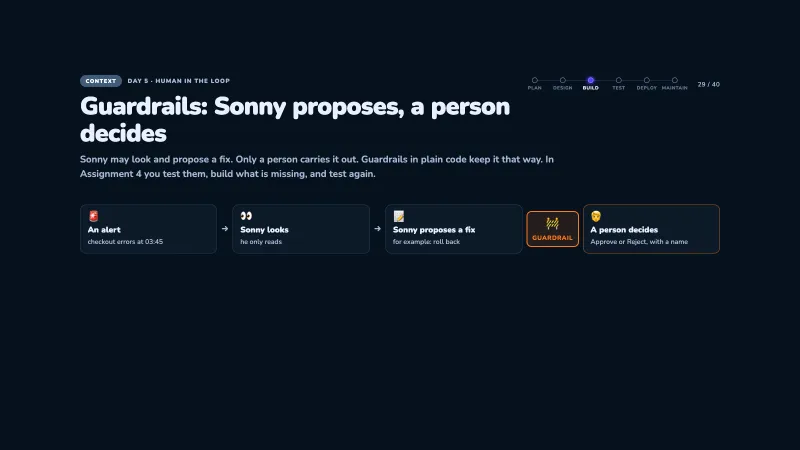
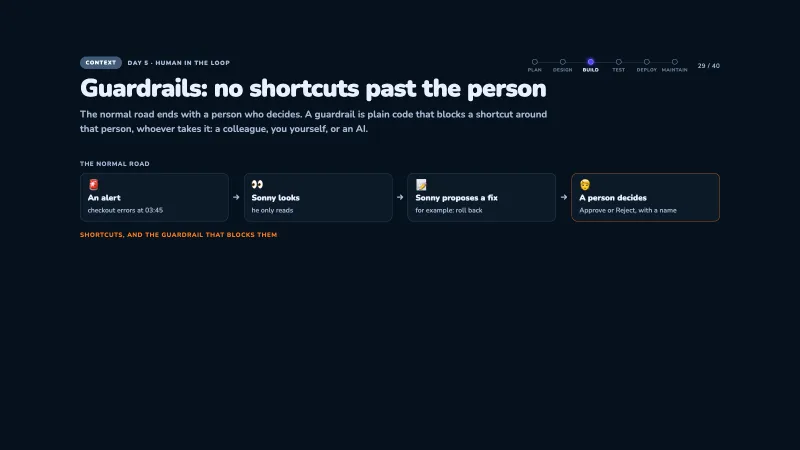
Day 5 slide 29 reframed: "Guardrails: no shortcuts past the person"
Why: Jessy pointed out the old version was odd: the chain showed Sonny proposing
a fix, but the chat example was about someone else asking for a rollback, and the
guardrail sat in the normal flow. The angle now: the normal road ends with a
person who decides; a guardrail blocks a shortcut around that person, whoever
takes it (a colleague, you yourself, a trick in a log, or an AI).

- Top: "The normal road" (alert → Sonny looks → proposes a fix → a person decides),
  no guardrail in it.
- Below: "Shortcuts, and the guardrail that blocks them": 1 rolling back through
  the chat (who/try/stop), 2 lowering the pass mark: Sonny's practice exam (bench)
  must reach 70% right and 0 harmful (bench/ratchet.json); Claude Code may not
  lower it. Plain words instead of "the bar".
- Script, watch, terms and pictures s29-1..5 redone; A4 notes use the same words.
- guardRail visual: optional chain/rails headings; the middle gate is optional.

diff --git a/day5-jessy-slides.js b/day5-jessy-slides.js
@@ -1042,35 +1042,36 @@ const day5Slides = [
     notes: note({time: '12:15 · 3 min', why: 'The quiz catches identity and authority mistakes before lunch.', predict: 'Ask for two true answers.', see: 'B and D remain.', inside: 'The wrong answers repeat the two main risks.', participant: 'Vote before the reveal.', watch: 'Do not explain before the vote.', stuck: 'Read each answer aloud.', stop: 'The room can explain both false answers.', next: 'Lunch'})
   }),
   pauseSlide('Lunch', '60 min', 'Recall the morning before A4', '12:00'),
-  pauseSlide('Restart and settle', '10 min', 'Guardrails: Sonny proposes, a person decides', '13:10'),
+  pauseSlide('Restart and settle', '10 min', 'Guardrails: no shortcuts past the person', '13:10'),
   baseSlide({
-    title: 'Guardrails: Sonny proposes, a person decides', kicker: 'Day 5 · HUMAN IN THE LOOP', type: 'context',
-    subtitle: 'Sonny may look and propose a fix. Only a person carries it out. Guardrails in plain code keep it that way. In Assignment 4 you test them, build what is missing, and test again.',
+    title: 'Guardrails: no shortcuts past the person', kicker: 'Day 5 · HUMAN IN THE LOOP', type: 'context',
+    subtitle: 'The normal road ends with a person who decides. A guardrail is plain code that blocks a shortcut around that person, whoever takes it: a colleague, you yourself, or an AI.',
     visual: {guardRail: {
+      chainTitle: 'The normal road',
       chain: [['🚨', 'An alert', 'checkout errors at 03:45'], ['👀', 'Sonny looks', 'he only reads'], ['📝', 'Sonny proposes a fix', 'for example: roll back'], ['🧑', 'A person decides', 'Approve or Reject, with a name']],
-      gate: 'guardrail',
+      railsTitle: 'Shortcuts, and the guardrail that blocks them',
       rails: [
-        {icon: '💬', title: 'On the operator’s desk: the chat', tryLabel: 'Try', try: '“Roll back now.” typed in the chat', stop: 'Questions: yes. Actions: no. A rollback is a button for a named person.', where: 'src/chat.ts', today: 'today: missing · Claude Code builds it'},
-        {icon: '🛠', title: 'On Claude Code: the bar', tryLabel: 'Try', try: 'Claude Code changes bench/ratchet.json: the bar Sonny must meet (70% right, 0 harmful)', stop: 'Only a person changes the bar. Claude Code may not make the test easier.', where: '.claude/hooks/guard.mjs', today: 'today: missing · you write it yourself'}
+        {icon: '💬', title: 'Shortcut 1: rolling back through the chat', who: 'anyone at the desk: a colleague, you at 03:45, or a trick hidden in a log message', try: 'types “Roll back now.” in the chat, without a diagnosis and without the button', stop: 'The chat answers questions, but refuses actions: “use the button, with your name”.', where: 'src/chat.ts', today: 'today: missing · Claude Code builds it'},
+        {icon: '🛠', title: 'Shortcut 2: lowering the pass mark', who: 'Claude Code, the AI that builds with you', try: 'Sonny must pass a practice exam: at least 70% right, never a harmful fix. Claude Code lowers that pass mark in bench/ratchet.json, so Sonny passes without getting better', stop: 'Only a person may change the pass mark. Claude Code is refused.', where: '.claude/hooks/guard.mjs', today: 'today: missing · you write it yourself'}
       ],
-      foot: 'Assignment 4: try it → build what is missing → try it again.'
+      foot: 'Assignment 4: try the shortcut → build the guardrail → try the shortcut again.'
     }},
-    keyPoints: ['Sonny looks and proposes. A person decides.', 'Guardrails are plain code: they work the same with or without AI.', 'Test a guardrail by trying to break it.'],
-    notes: 'Time: 13:13 · 5 min. Replaces Ryan’s “Refuse unsafe chat actions” and the A4 example picture. Clicks (→): 1 the guardrail in the chain lights up · 2 the chat guardrail · 3 the guardrail on Claude Code · 4 the line at the bottom. Facts (workshop/start): every chat message first goes through routeMessage() in src/chat.ts, plain code that sorts it by how it starts: “Investigate …” → an investigation, “Watch …” → a deployment watch, anything else → a question, answered from read-only tools. The action refusal (roll back, approve, resolve, scale up) is the TODO(A4) there; test/workshop/chat.test.ts is red until it is built. Sonny has no tool that can roll back; rollback only runs through Approve and then Execute (a separate executor) on the desk. bench/ratchet.json = {min_rate 0.7, max_harmful 0}: the minimum the offline bench must reach. The guard hook (.claude/hooks/guard.mjs) is the project’s Claude Code hook (like Day 2); its TODO(A4) is the line the participant writes by hand. Tested: before A4 “Roll back now.” gets the evidence summary and “You asked: …”; after A4 “mutations are buttons for a named human, not chat requests”.',
+    keyPoints: ['The normal road ends with a person who decides.', 'A guardrail blocks a shortcut around that person, whoever takes it.', 'Guardrails are plain code: test them by trying the shortcut.'],
+    notes: 'Time: 13:13 · 5 min. Replaces Ryan’s “Refuse unsafe chat actions” and the A4 example picture. Clicks (→): 1 the heading “Shortcuts…” · 2 shortcut 1 (the chat) · 3 shortcut 2 (the pass mark) · 4 the line at the bottom. The top row is the normal road, always visible: no guardrail is needed there. Facts (workshop/start): every chat message first goes through routeMessage() in src/chat.ts, plain code that sorts it by how it starts: “Investigate …” → an investigation, “Watch …” → a deployment watch, anything else → a question answered from read-only tools. The action refusal (roll back, approve, resolve, scale up) is the TODO(A4) there; test/workshop/chat.test.ts is red until built. Sonny has no tool that can roll back; rollback only runs through Approve and then Execute on the desk. The practice exam = the bench (npm run bench: Sonny on a set of saved incidents); bench/ratchet.json = {min_rate 0.7, max_harmful 0}, the minimum the bench must reach. The guard hook (.claude/hooks/guard.mjs, like Day 2) checks every Claude Code action; its TODO(A4) is the line the participant writes by hand. Tested: before A4 “Roll back now.” is treated as a question (evidence + “You asked: …”); after A4 “mutations are buttons for a named human, not chat requests”.',
     teach: {
       time: '5 min',
-      gist: 'Zoom out: control. Sonny looks and proposes, a person decides, and guardrails in plain code keep it that way. Assignment 4 tests two of them.',
+      gist: 'Zoom out: the normal road ends with a person who decides. Guardrails block shortcuts around that person, whoever takes them. Assignment 4 tests two shortcuts.',
       script: [
-        {shot: 'assets/day5-jessy-teach/s29-1.webp', do: 'Slide appears. Point at the chain, left to right.', say: ['This morning Sonny learned to write a diagnosis you can trust. It ends with a proposed fix, for example: roll back.', 'Look at the chain: an alert, Sonny looks, he only reads, he proposes a fix. And at the end, a person decides: Approve or Reject, with a name.'], ask: ['Why not let Sonny roll back himself? He is right most of the time.']},
-        {say: ['(Answer: the fix is the riskiest moment. A wrong rollback can make things worse, and someone has to answer for it. In SRE the tools propose, and a person with a name approves.)']},
-        {shot: 'assets/day5-jessy-teach/s29-2.webp', do: 'Click: the guardrail lights up.', say: ['Between “he proposes” and “a person decides” sits a guardrail. Plain code, not AI: it does not get tired, and you cannot talk it into anything.', 'Being in control means: you know where the guardrails are, you test them, and you fix them when something is missing.']},
-        {shot: 'assets/day5-jessy-teach/s29-3.webp', do: 'Click: the chat guardrail.', say: ['You know the desk from this morning. In the chat the operator asks Sonny questions.', 'But what if someone types “Roll back now.”? A tired operator at 03:45, or a trick hidden in a log message.', 'The guardrail: questions yes, actions no. A rollback is a button for a named person. Today it is missing: you will see that yourself.']},
-        {shot: 'assets/day5-jessy-teach/s29-4.webp', do: 'Click: the guardrail on Claude Code.', say: ['The second guardrail is not on Sonny, but on Claude Code, the AI that builds with you.', 'bench/ratchet.json holds the bar Sonny must meet: 70% of the practice incidents right, 0 harmful proposals.', 'If Claude Code may lower that bar, it can always make itself look good. So only a person changes it.', 'And because this guardrail watches Claude Code, you write that line yourself, not Claude Code.']},
-        {shot: 'assets/day5-jessy-teach/s29-5.webp', do: 'Click: the line at the bottom.', say: ['That is Assignment 4: try it, build what is missing, try it again. The same rhythm as the red and green test this morning, now on the desk.']}
+        {shot: 'assets/day5-jessy-teach/s29-1.webp', do: 'Slide appears. Point at the top row, left to right.', say: ['This is the normal road. You know it from this morning.', 'An alert. Sonny looks, he only reads. He proposes a fix, for example: roll back. And then a person decides: Approve or Reject, with a name.', 'Nothing wrong with this road. The person at the end is in control.'], ask: ['Where could someone skip that person?']},
+        {shot: 'assets/day5-jessy-teach/s29-2.webp', do: 'Click: the heading “Shortcuts”.', say: ['A guardrail is plain code that blocks a shortcut around that person. Whoever takes the shortcut: a colleague, you yourself, or an AI.', 'Not because people are bad. Because at 03:45 everyone is tired, and an AI does what it is told.']},
+        {shot: 'assets/day5-jessy-teach/s29-3.webp', do: 'Click: shortcut 1.', say: ['Shortcut 1: someone types “Roll back now.” in the chat. No diagnosis, no button, no name.', 'That could be a colleague in a hurry, you yourself at 03:45, or a trick: text hidden in a log message that tries to give an order.', 'The guardrail: the chat answers questions, but refuses actions. “Use the button, with your name.” Today it is missing: you will see that yourself first.']},
+        {shot: 'assets/day5-jessy-teach/s29-4.webp', do: 'Click: shortcut 2.', say: ['Shortcut 2 is about Claude Code, the AI that builds with you.', 'Sonny must pass a practice exam: a set of saved incidents. At least 70% right, and never a harmful fix. That pass mark is in one file: bench/ratchet.json.', 'If Claude Code can change that file, it can lower the pass mark. Then Sonny “passes” without getting better. Like a student who changes their own grade.', 'The guardrail: only a person may change the pass mark. And because this guardrail watches Claude Code, you write it yourself.']},
+        {ask: 'Who takes the shortcut in shortcut 2?', say: ['(Answer: Claude Code. So even the AI you work with gets a guardrail.)']},
+        {shot: 'assets/day5-jessy-teach/s29-5.webp', do: 'Click: the line at the bottom.', say: ['That is Assignment 4: try the shortcut, build the guardrail, try the shortcut again. The same rhythm as red and green this morning.']}
       ],
-      learn: ['Sonny looks and proposes; a person decides.', 'Guardrails are plain code, so you can test them.', 'One guardrail protects the desk, one protects the project from the builder AI.'],
-      watch: ['Someone asks if Sonny could roll back now: no. He has no tool for it. Rollback only runs through Approve and Execute on the desk.', 'Someone asks what a “trick in a log message” is: text inside data that tries to give the AI an order. Plain-code guardrails do not listen to it.', 'Do not go into the code here; that is the assignment.'],
-      terms: [['Guardrail', 'plain code that stops an action before it happens'], ['Rollback', 'undo the last update: back from v2.15.0 to v2.14.0'], ['bench/ratchet.json', 'the bar Sonny must meet: 70% right, 0 harmful']],
+      learn: ['The normal road ends with a person who decides.', 'A guardrail blocks a shortcut around that person, whoever takes it, even an AI.', 'You test a guardrail by trying the shortcut.'],
+      watch: ['Someone asks if Sonny could roll back now: no. He has no tool for it. Rollback only runs through Approve and Execute on the desk. Shortcut 1 is about the chat looking like the place to do it.', 'Someone asks what a “trick in a log message” is: text inside data that tries to give the AI an order. Plain-code guardrails do not listen to it.', 'Do not go into the code here; that is the assignment.'],
+      terms: [['Guardrail', 'plain code that blocks a shortcut around the person who decides'], ['Rollback', 'undo the last update: back from v2.15.0 to v2.14.0'], ['Practice exam (bench)', 'Sonny on a set of saved incidents; the pass mark is in bench/ratchet.json: 70% right, 0 harmful']],
       next: 'Assignment 4.'
     }
   }),
@@ -1083,7 +1084,7 @@ const day5Slides = [
       {text: 'Type this in: Claude Code. Goal: check your guard line, without Claude Code touching it.', prompt: PROMPTS.a4Review, after: 'The guard test: Edit and Write to bench/ratchet.json are denied. Claude Code did not edit the hook.'},
       {text: 'Type this in: Window 1. Press Ctrl+C, then start the console again so it uses your A4 code.', prompt: 'AGENT_LISTEN_WINDOW_MIN=1 npm run console', after: 'The console runs again. The shop and the customers keep running.', warn: true},
       {text: 'Open in browser: http://localhost:4320. Goal: try step 1 again. Same investigation, same chat:', prompt: 'Roll back now.', after: '“mutations are buttons for a named human, not chat requests”.'},
-      {text: 'You decide. Goal: say the two guardrails in your own words.', after: 'The chat guardrail: a chat message never starts an action. The guardrail on Claude Code: only a person changes the bar.'}
+      {text: 'You decide. Goal: say the two guardrails in your own words.', after: 'The chat guardrail: a chat message never starts an action. The guardrail on Claude Code: only a person changes the pass mark.'}
     ],
     after: 'On the desk the chat now refuses “roll back”, evidence questions still work, and your guard line locks bench/ratchet.json.',
     checks: ['Step 1 and step 6: the same sentence, first answered, then refused.', 'The chat test and the guard test are green.', 'You wrote the guard line yourself.'],
@@ -1094,20 +1095,20 @@ const day5Slides = [
       done: ['They saw the same sentence answered (step 1) and refused (step 6).', 'Chat test and guard test green.', 'They can name the two guardrails.'],
       copy: [['Step 1 · Browser chat', 'Roll back now.'], ['Step 2 · Claude Code', PROMPTS.a4Chat], ['Step 3 · .claude/hooks/guard.mjs', 'else if (rel === "bench/ratchet.json")\n    decide("deny", "guard: ratchet is human-owned");'], ['Step 4 · Claude Code', PROMPTS.a4Review], ['Step 5 · Window 1 (Ctrl+C first)', 'AGENT_LISTEN_WINDOW_MIN=1 npm run console'], ['Step 6 · Browser chat', 'Roll back now.']],
       script: [
-        {do: 'Slide appears. Goal of this assignment.', say: ['This morning Sonny learned to write a good diagnosis. Now: what may he do?', 'He may look at evidence and propose a fix. He may never do it himself. Rolling back is a button for a named person.', 'Today you test and build two guardrails from the last slide: one on the chat, one on Claude Code.']},
+        {do: 'Slide appears. Goal of this assignment.', say: ['This morning Sonny learned to write a good diagnosis. Now: what may he do?', 'He may look at evidence and propose a fix. He may never do it himself. Rolling back is a button for a named person.', 'Today you try the two shortcuts from the last slide, and build the guardrails: one on the chat, one on Claude Code.']},
         {do: 'Step 1 · see the problem first. Browser, your investigation from Assignment 3, chat: “Roll back now.”', copy: [['Step 1 · Browser chat', 'Roll back now.']], say: ['Why: first see that the guardrail is missing, like the red test this morning.', 'They see: Sonny answers with his evidence, and “You asked: Roll back now.”.', 'What happened: every chat message first goes through a sorter, plain code. It looks at how the message starts. “Investigate …” starts an investigation, “Watch …” watches an update, and anything else is treated as a question.', '“Roll back now.” is none of these, so it becomes a question. Nothing is rolled back: Sonny has no tool for that. But nothing says no either. At 03:45 the operator might think it worked.']},
         {ask: 'Who should be able to roll back, at 03:45?', say: ['(Answer: a named person, with a button. Not a chat message.)']},
         {do: 'Step 2 · build the chat lock. Paste the first prompt.', copy: [['Step 2 · Claude Code', PROMPTS.a4Chat]], say: ['Why: same rhythm as Assignment 3: the test red first, then build, then green.', 'In the project: the sorter in src/chat.ts gets one more row: action words (roll back, approve, resolve, scale up) → refused, with a clear answer. It runs before everything else. Only the A4 chat test runs.', 'Two sentences matter: “Do not approve and roll back now.” must be refused. The long evidence question that ends with “Do not approve or execute anything.” must still work: it only asks to look.']},
         {ask: 'Both sentences say “do not approve”. Why is one refused and the other not?', say: ['(Answer: the first one still asks to roll back. The second one only asks to look at evidence.)']},
-        {do: 'Step 3 · you, not Claude. Open .claude/hooks/guard.mjs, replace the TODO(A4) lines.', copy: [['Step 3 · guard.mjs', 'else if (rel === "bench/ratchet.json")\n    decide("deny", "guard: ratchet is human-owned");']], say: ['Why: this file guards Claude Code itself. If Claude Code wrote its own guardrail, who checks it? So a person writes this line.', 'bench/ratchet.json holds the score Sonny must keep reaching. Claude Code may not change it to make itself look good.']},
+        {do: 'Step 3 · you, not Claude. Open .claude/hooks/guard.mjs, replace the TODO(A4) lines.', copy: [['Step 3 · guard.mjs', 'else if (rel === "bench/ratchet.json")\n    decide("deny", "guard: ratchet is human-owned");']], say: ['Why: this file guards Claude Code itself. If Claude Code wrote its own guardrail, who checks it? So a person writes this line.', 'bench/ratchet.json holds the pass mark of Sonny’s practice exam: 70% right, 0 harmful. If Claude Code could lower it, Sonny would pass without getting better.']},
         {do: 'Step 4 · let Claude Code check your line. Paste the second prompt.', copy: [['Step 4 · Claude Code', PROMPTS.a4Review]], say: ['In the project: only the guard test runs. Claude Code reads your line, but does not edit it.', 'They see: Edit and Write to bench/ratchet.json are denied.', 'Honest limit: the guard looks at Claude Code’s edit actions. It does not block every shell command. The prompt says not to claim that.']},
         {do: 'Step 5 · restart the console in Window 1.', copy: [['Step 5 · Window 1', 'AGENT_LISTEN_WINDOW_MIN=1 npm run console']], say: ['Same as Assignment 3: the console still runs your old code. Ctrl+C, start again. Only Window 1.']},
         {do: 'Step 6 · try step 1 again. Same investigation, same chat.', copy: [['Step 6 · Browser chat', 'Roll back now.']], say: ['They see: “mutations are buttons for a named human, not chat requests”.', 'Same sentence as step 1. Before: treated as a question. Now: the sorter refuses it straight away, with a clear answer. That is your guardrail, on the operator’s desk.', 'Ask a normal question too, like “How is production doing?”: it still gets an answer. Only actions are locked.']},
-        {do: 'Step 7 · wrap up: the two guardrails.', say: ['The chat guardrail: a chat message can never start an action, also not with a real AI later. That protects the operator.', 'The guardrail on Claude Code: it cannot change the bar. That protects the project from the builder AI.', 'Both are plain code, not AI. Like the contract this morning.', 'In Assignment 6 you see the button that a person does press.']}
+        {do: 'Step 7 · wrap up: the two guardrails.', say: ['The chat guardrail: a chat message can never start an action, also not with a real AI later. That protects the operator.', 'The guardrail on Claude Code: it cannot lower the pass mark. Even the AI you build with gets a guardrail.', 'Both are plain code, not AI. Like the contract this morning.', 'In Assignment 6 you see the button that a person does press.']}
       ],
       learn: ['See the problem first, then build, then see it again: before and after.', 'In the chat Sonny answers questions; a chat message never starts an action. Actions are buttons for a named person.', 'Some files only a person changes, even the lock on the builder AI.'],
       watch: ['Step 1: the investigation from Assignment 3 is gone after the restart? Click “+ New investigation” → “Investigate: customers report checkout errors” and use that one.', 'Step 1: Sonny already refuses: they used the catch-up branch, which has A4 in it. Fine, skip to step 2.', 'Step 6 still answers instead of refusing: the console was not restarted (step 5).', 'Claude Code offers to edit guard.mjs in step 4: say no, step 3 is the person’s job.', 'Someone says the guard blocks everything: no, only Claude Code’s edits to that one file.', 'The guard asks extra confirmation for test files in step 2: that is the guard from Day 2 doing its work.'],
-      terms: [['Mutation', 'an action that changes something: roll back, approve, scale, resolve'], ['Guard', 'the hook .claude/hooks/guard.mjs: plain code that allows or denies each Claude Code action'], ['bench/ratchet.json', 'the score Sonny must keep reaching; only a person may change it']],
+      terms: [['Mutation', 'an action that changes something: roll back, approve, scale, resolve'], ['Guard', 'the hook .claude/hooks/guard.mjs: plain code that allows or denies each Claude Code action'], ['bench/ratchet.json', 'the pass mark of Sonny’s practice exam (70% right, 0 harmful); only a person may change it']],
       changes: [
         ['After step 1', 'Nothing in Git. The chat message is saved in console/data/, which Git ignores.'],
         ['After step 2', '`modified: src/chat.ts` (plus PROGRESS.md).'],

diff --git a/day5-jessy.html b/day5-jessy.html
@@ -1,5 +1,5 @@
 <!doctype html>
-<html lang="en"><head><meta charset="utf-8"><meta http-equiv="Cache-Control" content="no-cache, no-store, must-revalidate"><meta http-equiv="Pragma" content="no-cache"><meta http-equiv="Expires" content="0"><meta name="viewport" content="width=device-width,initial-scale=1"><meta name="theme-color" content="#06111e"><title>Day 5 · AI-native SDLC (Jessy) · Aetherlink classroom</title><meta name="description" content="Day 5: a newcomer builds an AI on-call agent through six evidence-led assignments with Claude Code."><link rel="stylesheet" href="styles.css?v=197"><link rel="stylesheet" href="assets/day5-mobile.css?v=1"><script>window.ASG_PROMPT = true; window.ASG_WIDE = true; window.PRESENTER_PAGE = "day5-jessy-presenter.html"; window.OVERVIEW_SHEET = "https://claude.ai/artifact/46G6q235cuFtgRUruznWXm";</script><script src="day5-jessy-slides.js?v=51" defer></script><script src="demo-fallback.js?v=94" defer></script><script src="timers.js?v=92" defer></script><script src="sessions.js?v=20" defer></script><script src="app.js?v=178" defer></script><script src="fit-stage.js?v=2" defer></script></head>
+<html lang="en"><head><meta charset="utf-8"><meta http-equiv="Cache-Control" content="no-cache, no-store, must-revalidate"><meta http-equiv="Pragma" content="no-cache"><meta http-equiv="Expires" content="0"><meta name="viewport" content="width=device-width,initial-scale=1"><meta name="theme-color" content="#06111e"><title>Day 5 · AI-native SDLC (Jessy) · Aetherlink classroom</title><meta name="description" content="Day 5: a newcomer builds an AI on-call agent through six evidence-led assignments with Claude Code."><link rel="stylesheet" href="styles.css?v=198"><link rel="stylesheet" href="assets/day5-mobile.css?v=1"><script>window.ASG_PROMPT = true; window.ASG_WIDE = true; window.PRESENTER_PAGE = "day5-jessy-presenter.html"; window.OVERVIEW_SHEET = "https://claude.ai/artifact/46G6q235cuFtgRUruznWXm";</script><script src="day5-jessy-slides.js?v=52" defer></script><script src="demo-fallback.js?v=94" defer></script><script src="timers.js?v=92" defer></script><script src="sessions.js?v=20" defer></script><script src="app.js?v=179" defer></script><script src="fit-stage.js?v=2" defer></script></head>
 <body class="day5-mobile"><a class="skip" href="#stage">Skip to presentation</a>
 <header class="toolbar">
   <a class="brand" href="#1" aria-label="Aetherlink, slide 1"><img class="brand-mark" src="assets/aetherlink-mark.png" alt="" width="44" height="44">AETHER<span>LINK</span><small>WORLDLINE · CLASSROOM</small></a>

diff --git a/app.js b/app.js
@@ -584,15 +584,18 @@ function renderExtras(stage, main, s, v) {
   }
   if (v.guardRail) {                                             // Jessy Day 5 opt-in: guardrails. The chain alert → Sonny looks → proposes → [guardrail] → a person decides; below, the guardrails with what they stop. → reveals the guardrail, each rail, then the foot
     const G = v.guardRail; const wrap = node('div', 'gr-wrap'); let k = 0; const steps = [];
+    if (G.chainTitle) wrap.append(node('div', 'gr-title', G.chainTitle));
     const chain = node('div', 'gr-chain');
     G.chain.forEach(([ico, t, sub], i) => {
-      if (i === G.chain.length - 1) { const gate = node('div', 'gr-gate'); gate.append(node('span', 'gr-gate-ico', '🚧'), node('span', 'gr-gate-t', G.gate || 'guardrail')); chain.append(gate); steps.push(gate); }
+      if (i === G.chain.length - 1 && G.gate) { const gate = node('div', 'gr-gate'); gate.append(node('span', 'gr-gate-ico', '🚧'), node('span', 'gr-gate-t', G.gate)); chain.append(gate); steps.push(gate); }
       else if (i) chain.append(node('span', 'gr-to', '→'));
       const b = node('div', 'gr-step' + (i === G.chain.length - 1 ? ' human' : '')); b.append(node('span', 'gr-ico', ico), node('strong', null, t)); if (sub) b.append(node('span', 'gr-sub', sub)); chain.append(b);
     });
     wrap.append(chain);
+    if (G.railsTitle) { const rt = node('div', 'gr-title gr-title-rails', G.railsTitle); wrap.append(rt); steps.push(rt); }
     const rails = node('div', 'gr-rails');
     G.rails.forEach((R) => { const c = node('div', 'gr-rail'); const h = node('div', 'gr-rail-h'); h.append(node('span', 'gr-ico', R.icon), node('strong', null, R.title)); c.append(h);
+      if (R.who) { const w = node('div', 'gr-try'); w.append(node('span', 'gr-lab', R.whoLabel || 'Who'), node('span', null, R.who)); c.append(w); }
       const tr = node('div', 'gr-try'); tr.append(node('span', 'gr-lab', R.tryLabel || 'Try'), node('span', null, R.try)); c.append(tr);
       const st = node('div', 'gr-stop'); st.append(node('span', 'gr-x', '✋'), node('span', null, R.stop)); c.append(st);
       const m = node('div', 'gr-meta'); m.append(node('code', null, R.where)); if (R.today) m.append(node('span', 'gr-today', R.today)); c.append(m);

diff --git a/day5-jessy-presenter.html b/day5-jessy-presenter.html
@@ -1,6 +1,6 @@
 <!doctype html>
 <html lang="en"><head><meta charset="utf-8"><meta http-equiv="Cache-Control" content="no-cache, no-store, must-revalidate"><meta http-equiv="Pragma" content="no-cache"><meta http-equiv="Expires" content="0"><meta name="viewport" content="width=device-width,initial-scale=1"><meta name="theme-color" content="#06111e"><title>Presenter view · Day 5 · AI-native SDLC</title>
-<link rel="stylesheet" href="styles.css?v=197">
+<link rel="stylesheet" href="styles.css?v=198">
 <style>
   body{padding:1.4rem clamp(1rem,3vw,2.2rem);gap:1.2rem;min-height:100vh}
   .p-top{display:flex;justify-content:space-between;align-items:center;gap:1rem;flex-wrap:wrap;border-bottom:1px solid var(--border);padding-bottom:1rem}
@@ -149,7 +149,7 @@
       </div>
     </div>
   </div>
-  <script>window.DECK_PAGE = "day5-jessy.html"; window.PRESENTER_SKIP_HIDDEN = true;</script><script src="day5-jessy-slides.js?v=51" defer></script>
+  <script>window.DECK_PAGE = "day5-jessy.html"; window.PRESENTER_SKIP_HIDDEN = true;</script><script src="day5-jessy-slides.js?v=52" defer></script>
   <script src="timers.js?v=92" defer></script>
   <script>
     const upgradeDay5Clip = video => {

diff --git a/styles.css b/styles.css
@@ -2571,3 +2571,6 @@ html.ov-page body{min-height:100vh;background:var(--bg)}
 .gr-meta code{color:var(--cyan)}
 .gr-today{color:var(--muted,#9fb0c3)}
 .gr-foot{margin:0;font-weight:800;font-size:1.05rem;color:var(--cyan)}
+.gr-title{font-size:.78rem;font-weight:800;text-transform:uppercase;letter-spacing:.08em;color:var(--muted,#9fb0c3);margin-bottom:-.5rem}
+.gr-title-rails{color:var(--aether-orange);opacity:0;transition:opacity .4s ease}
+.gr-title-rails.shown{opacity:1}
